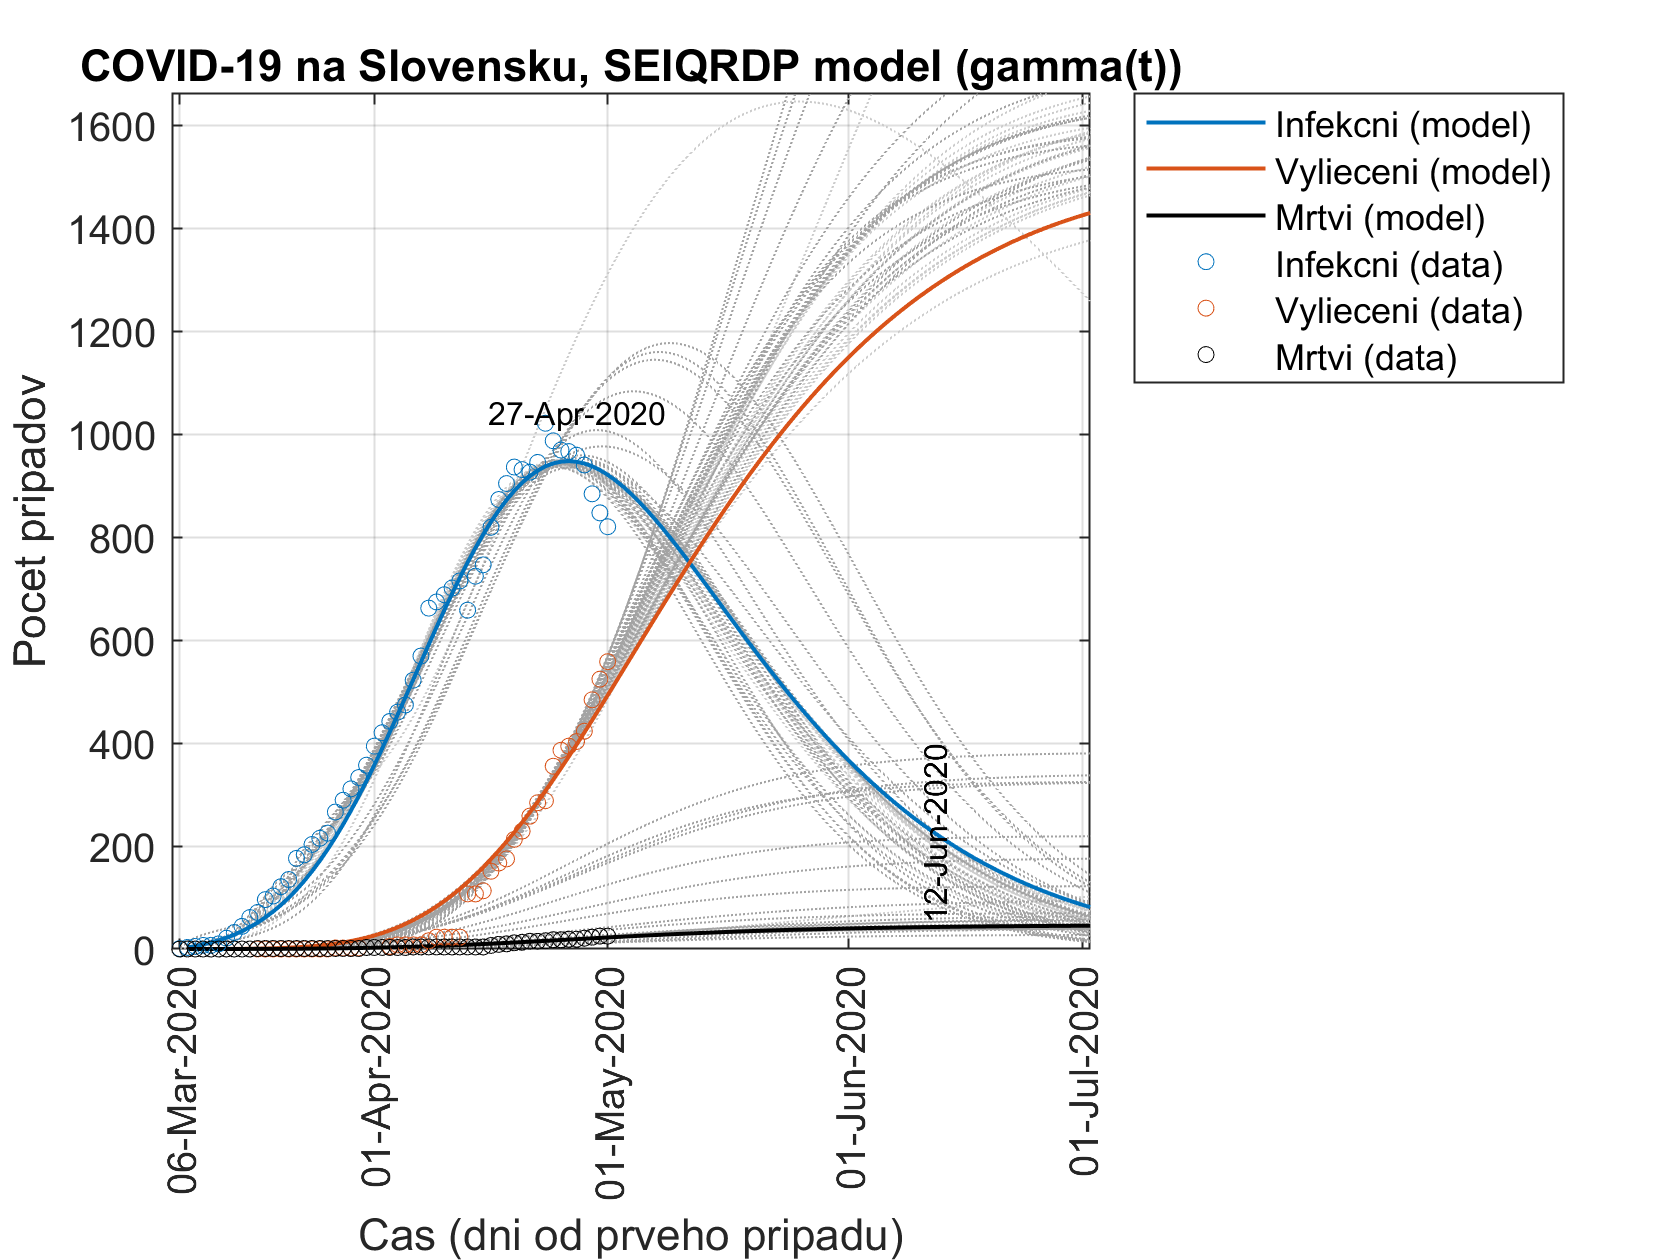
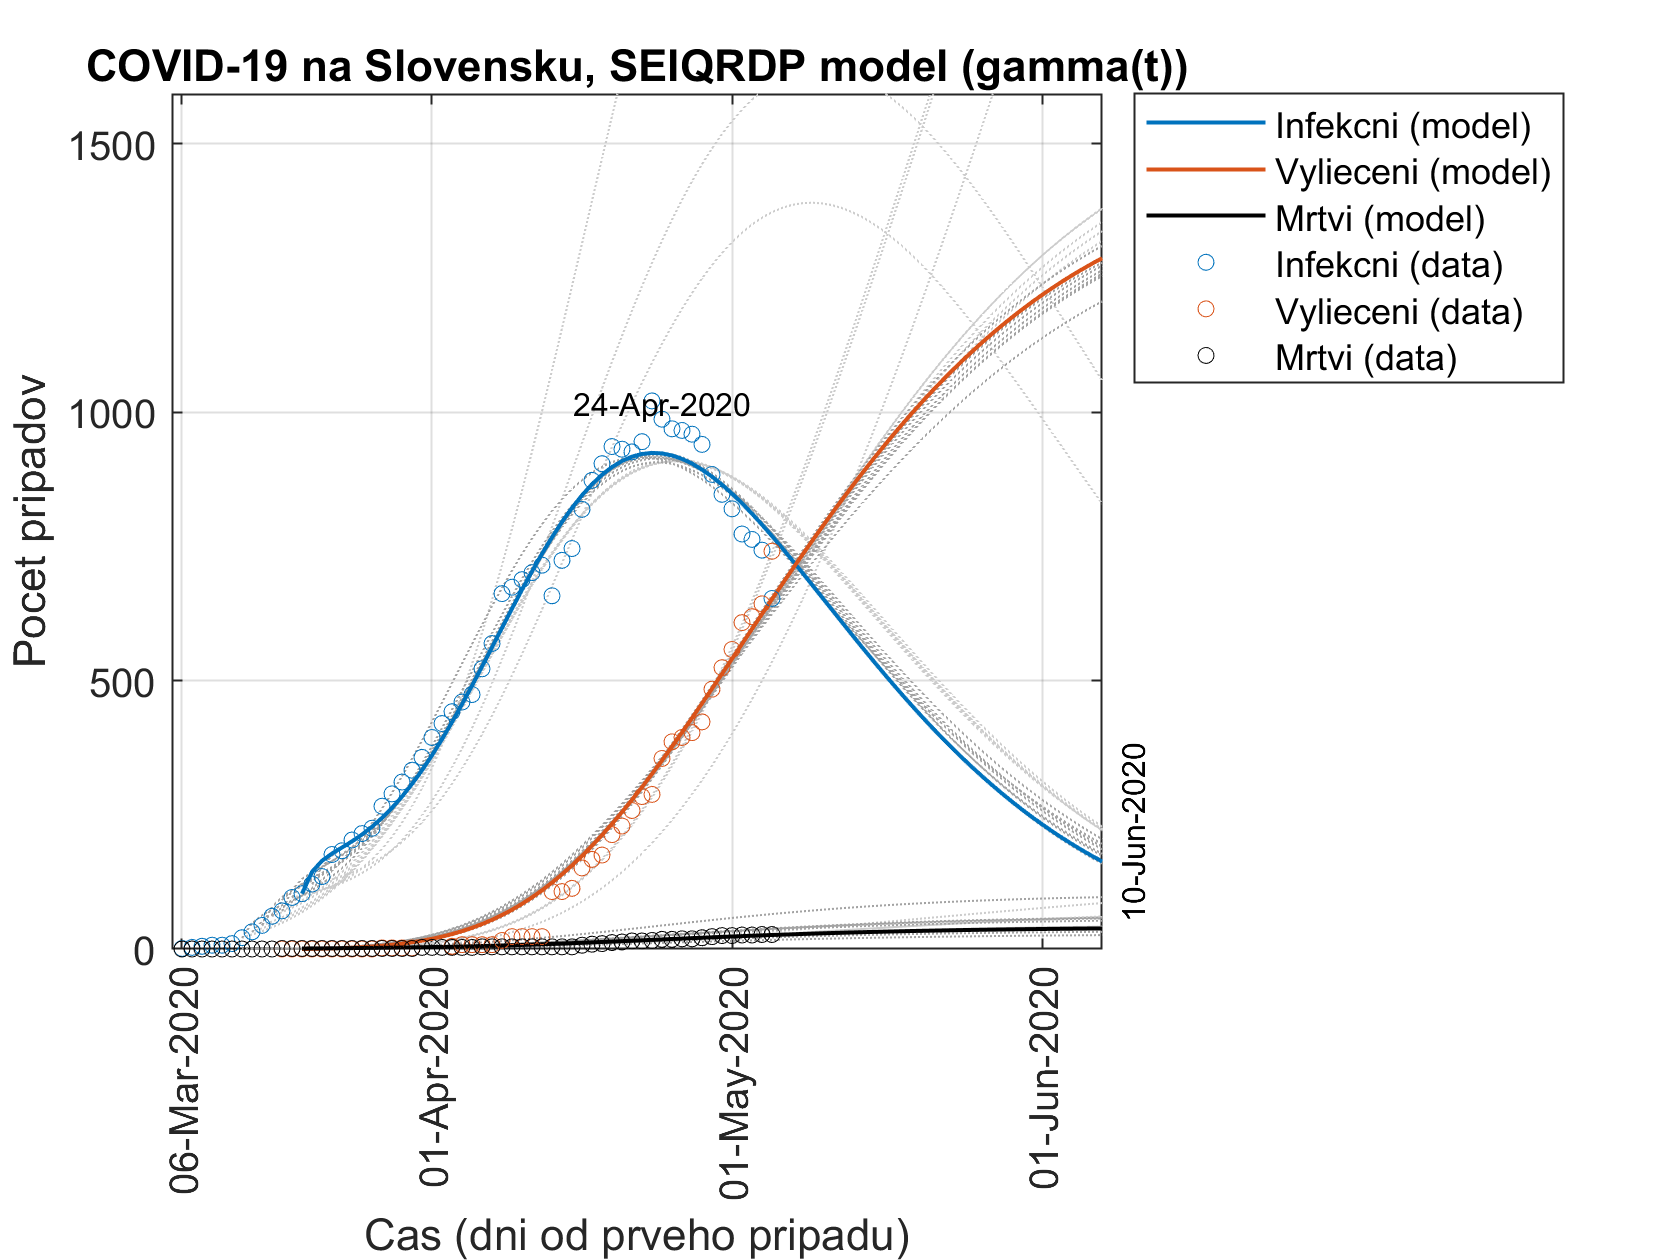
Daily quick update

diff --git a/fitSEIRDQP.m b/fitSEIRDQP.m
@@ -12,10 +12,8 @@ D=D(fitBegin:end);
 I=I(fitBegin:end);
 R=R(fitBegin:end);
 
-
 %% Initial parameter guesses and conditions
 Npop= 5.45E6;                           % Population of SLovakia
-
 
 E0 = I(1); % Initial number of exposed cases. Unknown but unlikely to be zero.
 I0 = I(1); % Initial number of infectious cases. Unknown but unlikely to be zero.
@@ -24,8 +22,6 @@ R0 = R(1);
 D0 = D(1);
 P0 = 0;    % No one is protected
 S0 = Npop-E0-I0-Q0-R0-D0-P0;
-
-
 
 %% My interpretation
 
@@ -36,30 +32,33 @@ data.OutputName = [{'Infected'};{'Recovered'};{'Dead'}];              % Output n
 data.OutputUnit = [{'Cases'};{'Cases'};{'Cases'}];                          % Output unit
 %dataToFit=data(fitBegin:end);    % Create dataset itslef.
 
-alpha = 0.02;
-beta =  2;        % [Days] 
-sigma = 5;      % [Days] Latent period
-delta = 5;       % [Days] Quaratine period
-gamma0=1/5;
-mu=4E-4;
+alpha  = 0.05;
+beta   = 1.5;        % [Days] 
+sigma  = 3;      % [Days] Latent period
+delta  = 4;       % [Days] Quaratine period
+gamma0 = 1/0.1;
+mu     = 1E-4;
 
 if mod == 1
-    gamma1=0.003;
+    gamma1=0.0001; % was 
 else 
     gamma1=0.0;
 end
     
-    
 
-
-% alpha = 0.02;
-% beta =  2;        % [Days] 
-% sigma = 12;      % [Days] Latent period
-% delta = 4;       % [Days] Quaratine period
+% alpha  = 0.05;
+% beta   = 1.5;        % [Days] 
+% sigma  = 3;      % [Days] Latent period
+% delta  = 4;       % [Days] Quaratine period
+% gamma0 = 1/1;
+% mu     = 4E-4;
 % 
-% gamma0=0.15;
-% gamma1=0.003;
-% mu=4E-4;
+% if mod == 1
+%     gamma1=0.001; % was 
+% else 
+%     gamma1=0.0;
+% end
+
 
 
 FileName             = 'SEIQRDP_ODE';              % File describing the SIR model structure
@@ -76,8 +75,8 @@ SEIQRDPinit = idnlgrey(FileName,Order,Parameters,InitialStates,Ts,'TimeUnit','da
 % --------------Parameters--------------------
 
 % alpha - protection rate
-SEIQRDPinit.Parameters(1).Minimum = 0;      
-SEIQRDPinit.Parameters(1).Maximum = 0.2;   
+SEIQRDPinit.Parameters(1).Minimum = 0.001;      
+SEIQRDPinit.Parameters(1).Maximum = 0.1;   
 SEIQRDPinit.Parameters(1).Fixed = false;
 
 % beta - infection rate
@@ -86,7 +85,7 @@ SEIQRDPinit.Parameters(2).Maximum = 5;      % [1/days]
 SEIQRDPinit.Parameters(2).Fixed = false;
     
 % sigma - latent period
-SEIQRDPinit.Parameters(3).Minimum = 1/31;   % [1/days] 
+SEIQRDPinit.Parameters(3).Minimum = 1/7;   % [1/days] 
 SEIQRDPinit.Parameters(3).Maximum = 1/1;    % [1/days] 
 SEIQRDPinit.Parameters(3).Fixed = false; 
 
@@ -111,7 +110,7 @@ end
     
 % mu - death
 SEIQRDPinit.Parameters(7).Minimum = eps;   % [1/days] 
-%SEIQRDPinit.Parameters(7).Maximum = 1/1;    % [1/days] 
+SEIQRDPinit.Parameters(7).Maximum = 1;    % [1/days] 
 SEIQRDPinit.Parameters(7).Fixed = false;
 
 
@@ -191,6 +190,12 @@ if strcmp(method,'lsqnonlin')
  %optEst.GradientOptions.MinDifference=1E-8;
 end
 
+optEst.OutputWeight=diag([100,10,100]);
+%optEst.OutputWeight=diag([500,25,50]);
+%50,10,5
+% optEst.OutputWeight=diag([120,25,20]);
+% optEst.OutputWeight=diag([100,25,10]);
+%optEst.Regularization.Lambda = 1.1;
 
 
 % Does not converge 'fmincon', 

diff --git a/SEIQRDP_ID2.m b/SEIQRDP_ID2.m
@@ -22,8 +22,8 @@ fitPrev=inf;
 fitBeginBest=1;
 
 
-fitTestBegin=1;
-fitTestSpan=21;
+fitTestBegin=6;
+fitTestSpan=31;
 
 %fitTestSpan=31;
 
